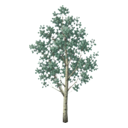
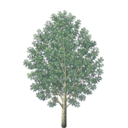
Wire accepted high-angle tree art
Replace the six runtime tree sprites with the approved high-angle Eastern Front set, preserve natural aspect ratios at gameplay scale, and record generation provenance. Wildflower assets and behavior are unchanged.

Changed region(s): [[0.1562, 0.0312, 0.8125, 1.0]]

diff --git a/client/src/renderer/doodad_manifest.js b/client/src/renderer/doodad_manifest.js
@@ -3,12 +3,12 @@ import { DOODAD_TYPE, DOODAD_TYPE_IDS as CONFIG_DOODAD_TYPE_IDS } from "../confi
 export const MAX_DOODADS = 4096;
 
 const TREE_SPECS = Object.freeze({
-  oak: Object.freeze({ widthPx: 86, heightPx: 112, anchorY: 0.94, windAmplitude: 0.025, windRate: 0.00115, shadowX: 25, shadowY: 9 }),
-  pine: Object.freeze({ widthPx: 76, heightPx: 122, anchorY: 0.96, windAmplitude: 0.018, windRate: 0.001, shadowX: 22, shadowY: 8 }),
+  oak: Object.freeze({ widthPx: 119, heightPx: 112, anchorY: 0.94, windAmplitude: 0.025, windRate: 0.00115, shadowX: 34, shadowY: 9 }),
+  pine: Object.freeze({ widthPx: 120, heightPx: 122, anchorY: 0.96, windAmplitude: 0.018, windRate: 0.001, shadowX: 34, shadowY: 8 }),
   birch: Object.freeze({ widthPx: 70, heightPx: 108, anchorY: 0.95, windAmplitude: 0.032, windRate: 0.0013, shadowX: 20, shadowY: 7 }),
-  spruce: Object.freeze({ widthPx: 74, heightPx: 126, anchorY: 0.96, windAmplitude: 0.016, windRate: 0.00095, shadowX: 22, shadowY: 8 }),
-  aspen: Object.freeze({ widthPx: 66, heightPx: 112, anchorY: 0.95, windAmplitude: 0.034, windRate: 0.00135, shadowX: 19, shadowY: 7 }),
-  alder: Object.freeze({ widthPx: 82, heightPx: 102, anchorY: 0.94, windAmplitude: 0.027, windRate: 0.0012, shadowX: 24, shadowY: 8 }),
+  spruce: Object.freeze({ widthPx: 103, heightPx: 126, anchorY: 0.96, windAmplitude: 0.016, windRate: 0.00095, shadowX: 30, shadowY: 8 }),
+  aspen: Object.freeze({ widthPx: 77, heightPx: 112, anchorY: 0.95, windAmplitude: 0.034, windRate: 0.00135, shadowX: 22, shadowY: 7 }),
+  alder: Object.freeze({ widthPx: 93, heightPx: 102, anchorY: 0.94, windAmplitude: 0.027, windRate: 0.0012, shadowX: 27, shadowY: 8 }),
 });
 
 const entries = {};

diff --git a/client/assets/doodads/high-angle-tree-prompts.md b/client/assets/doodads/high-angle-tree-prompts.md
@@ -1,0 +1,28 @@
+# Accepted high-angle tree generation
+
+Generated on 2026-08-02 with the built-in OpenAI image-generation tool. Each generation used the
+previous accepted three-quarter species sprite as Image 1 and the rejected strict vertical sprite
+as Image 2, with this shared direction:
+
+> Generate one new Eastern Front-native tree at an intermediate high camera angle exactly between
+> Image 1 and Image 2. Use a near-orthographic view with the optical axis about 40–45 degrees away
+> from vertical top-down. The canopy should dominate, but part of the trunk and canopy front edge
+> must remain visible. Match Image 1's early-3D/painted RTS raster aesthetic and restrained summer
+> palette. Center one complete tree with generous padding on a perfectly uniform `#ff00ff`
+> chroma-key background. No flowers, additional trees, ground, grass, shadows, scenery, text,
+> labels, watermarks, gradients, or magenta in the tree.
+
+Species-specific direction:
+
+- English/pedunculate oak: broad irregular lobed crown and sturdy branching trunk.
+- Scots pine: open irregular high crown, rounded needle clusters, and visible reddish upper trunk;
+  never a dense spruce silhouette.
+- Silver birch: airy yellow-green crown, white bark with dark markings, and delicate branching.
+- Norway spruce: dense blue-green cone, layered drooping boughs, and short visible trunk.
+- Eurasian aspen: narrow softly rounded pale blue-green crown, fine leaves, and slender gray trunk.
+- Black alder: compact uneven dark-green crown with several dark low branching stems.
+
+The built-in outputs were keyed with `remove_chroma_key.py` using border auto-key detection, soft
+matte, despill, transparent threshold 12, and opaque threshold 220. Each accepted tree was then
+trimmed, proportionally fit inside 118 × 118 pixels, bottom-centered on a transparent 128 × 128
+runtime canvas, and wired under its existing `tree.<species>` id.

diff --git a/client/assets/doodads/README.md b/client/assets/doodads/README.md
@@ -6,7 +6,9 @@ with the Codex image-generation skill's `remove_chroma_key.py` helper, then trim
 with ImageMagick. The generated originals remain outside the repository in Codex's generated-image
 store.
 
-All prompts requested an isolated, elevated three-quarter, low-poly/PS1-style RTS sprite
+The accepted tree prompts requested an isolated, high-angle near-orthographic RTS sprite with the
+camera roughly 40–45 degrees from vertical. The flower prompts requested the original elevated
+three-quarter view. Both use a low-poly/PS1-style raster treatment
 with restrained natural colors, crisp edges, no shadow, no text, no watermark, and no scenery.
 The subjects were:
 
